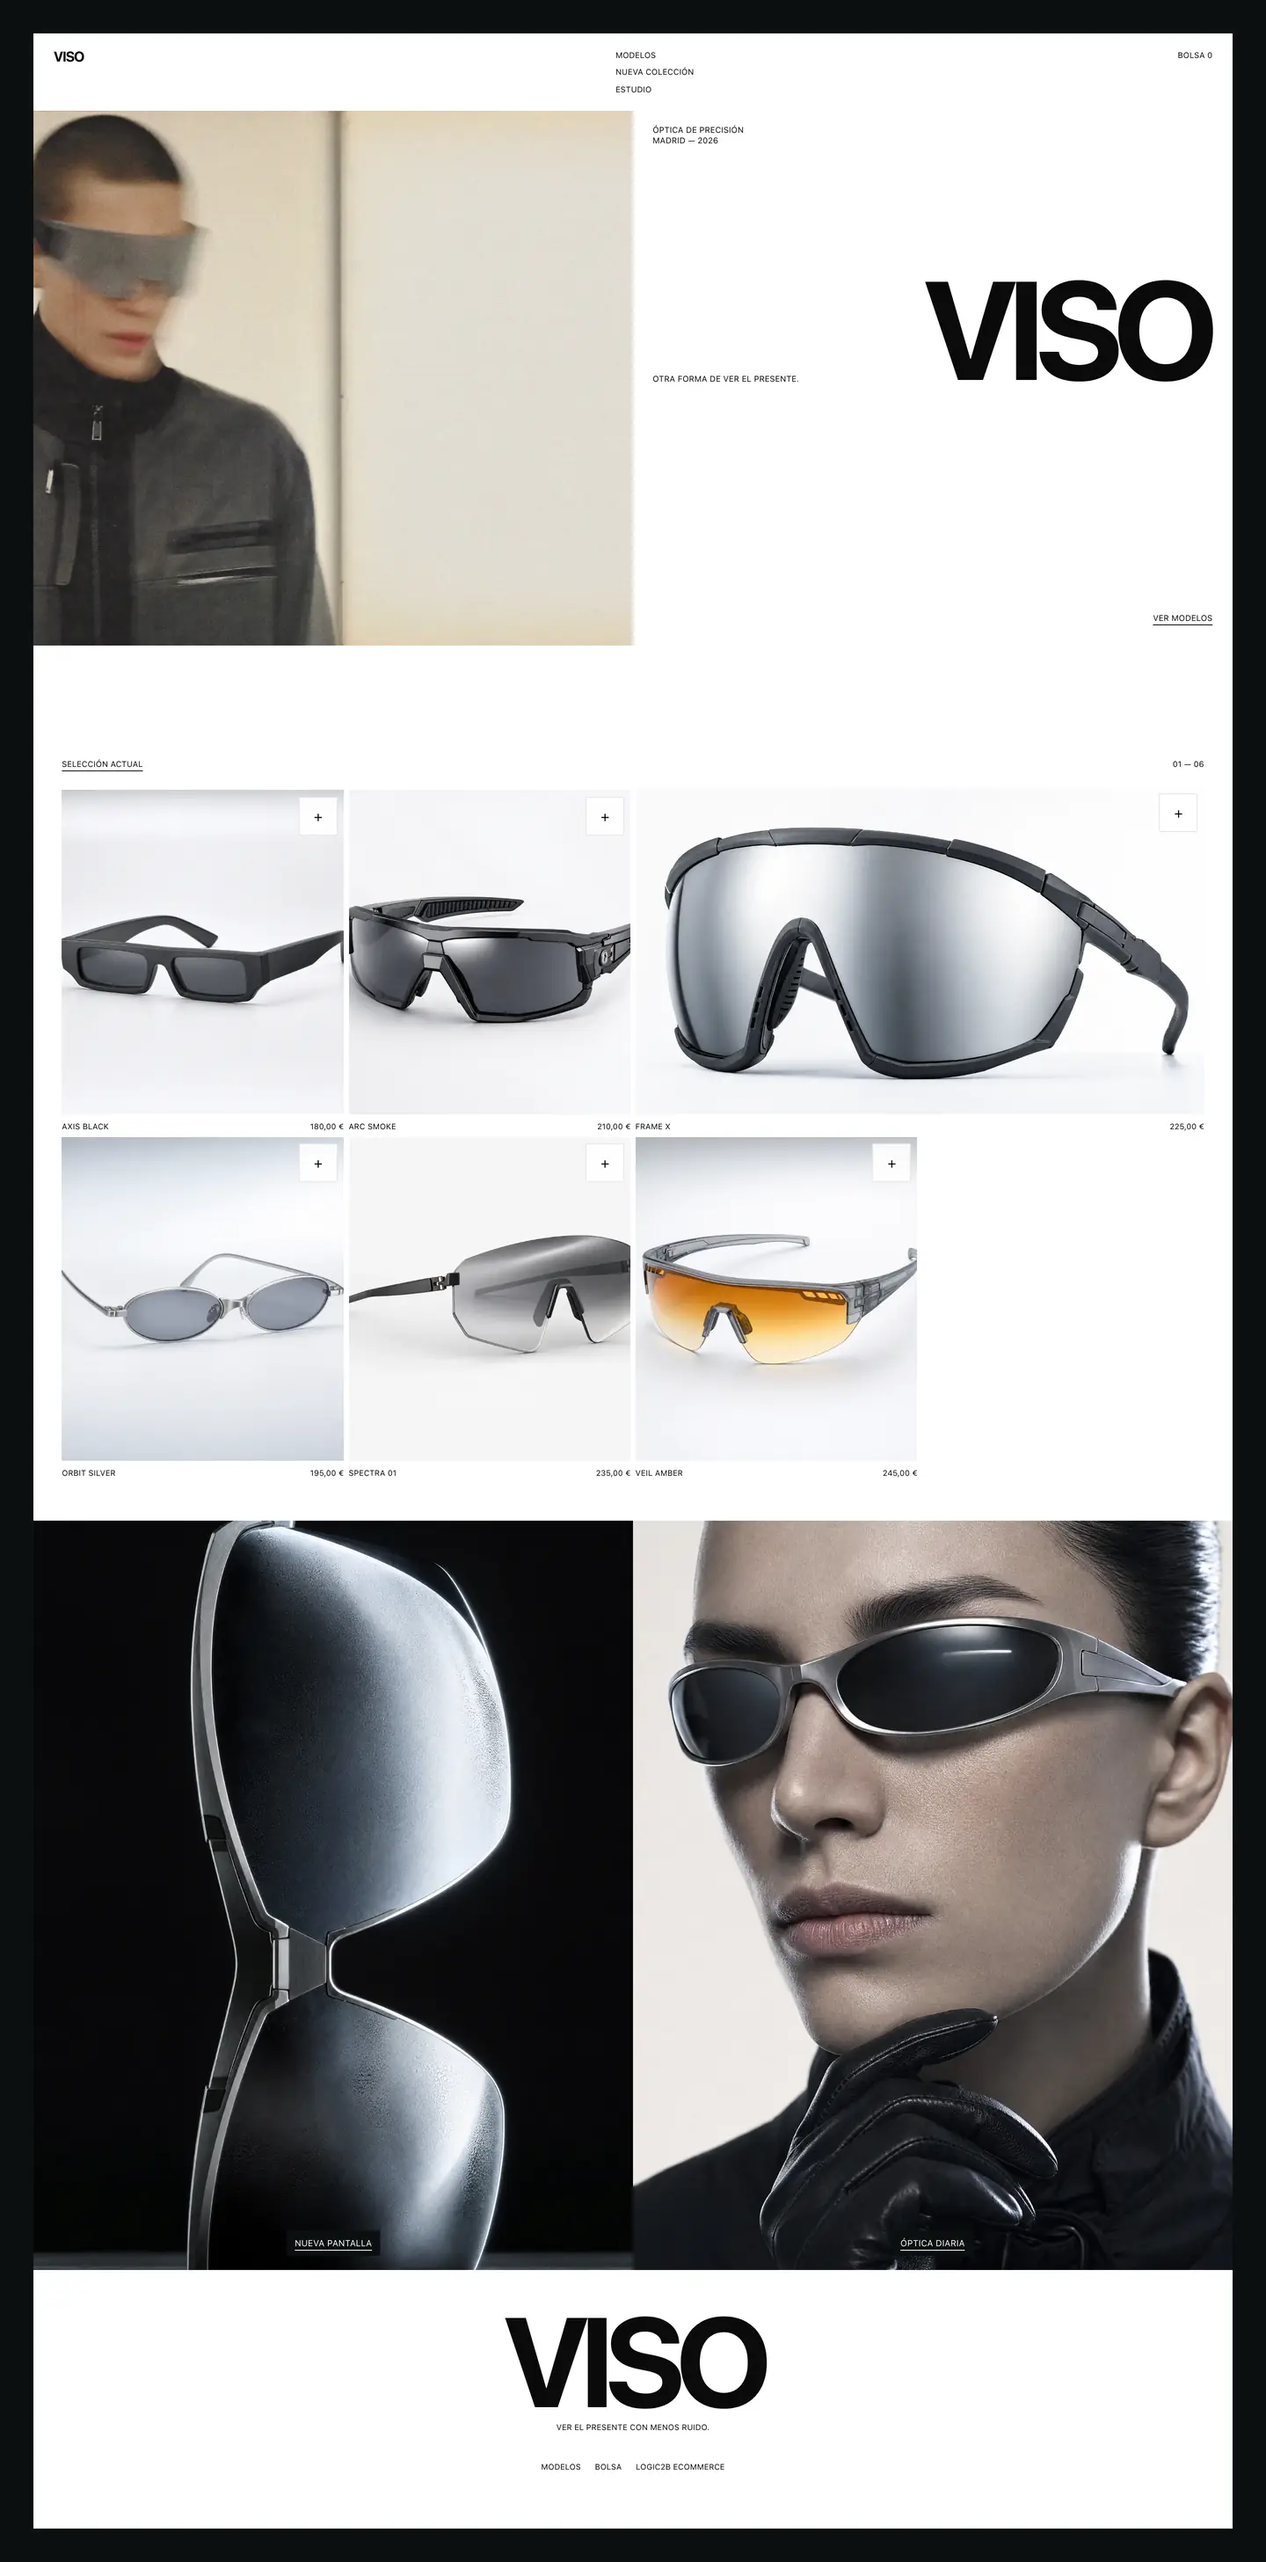
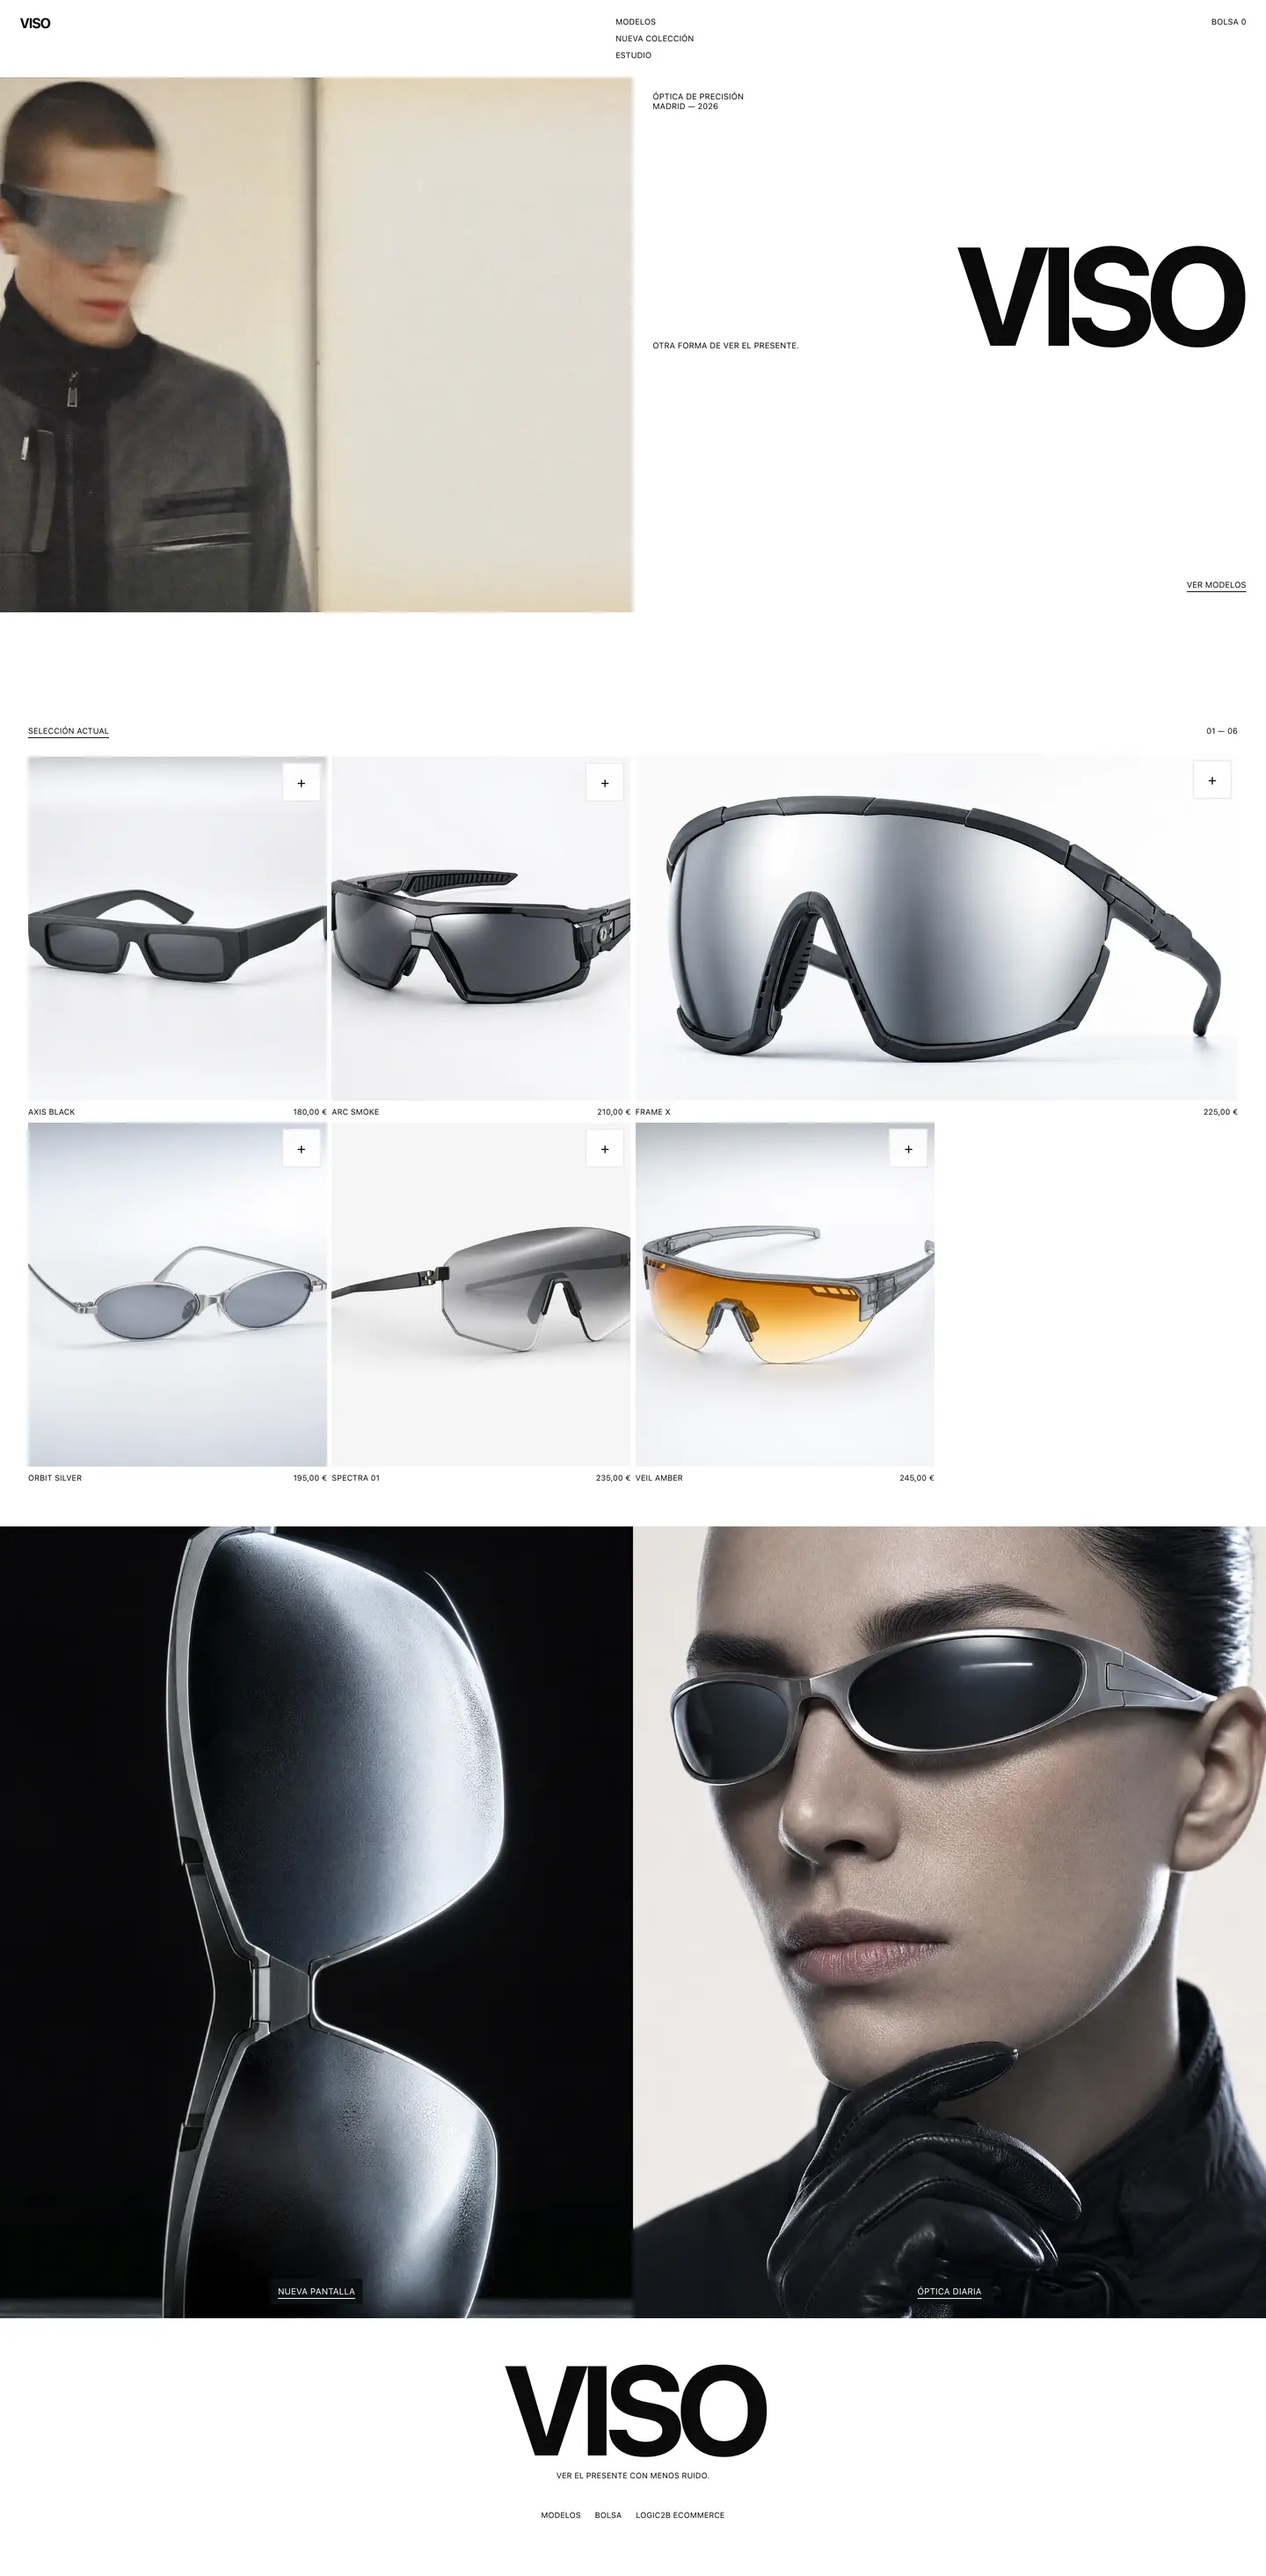
fix: make VISO storefront full width

Changed region(s): [[0.0, 0.0, 1.0, 1.0], [0.5312, 0.5935, 0.5625, 0.6873]]

diff --git a/docs/temas/viso.md b/docs/temas/viso.md
@@ -9,18 +9,19 @@
 
 ## Lectura de la referencia
 
-Escaparate de óptica futurista sobre un fondo casi negro, con una hoja marfil
-centrada, hero partido, navegación técnica diminuta y un wordmark enorme que
-cruza la zona de campaña. Debajo, la referencia alterna cuatro fichas de gafas
-de distinta anchura y cierra con dos campañas verticales. VISO conserva esa
-composición, el contraste de escala y la retícula asimétrica, pero usa marca,
-modelos, productos, copy y fotografías propios.
+La referencia presenta un escaparate de óptica futurista sobre un fondo casi
+negro, con una hoja marfil centrada, hero partido, navegación técnica diminuta y
+un wordmark enorme que cruza la zona de campaña. Debajo alterna cuatro fichas de
+gafas de distinta anchura y cierra con dos campañas verticales. VISO conserva
+esa composición, el contraste de escala y la retícula asimétrica, pero usa
+marca, modelos, productos, copy y fotografías propios. El 2026-08-10 Andreu
+pidió retirar el marco exterior y llevar el lienzo marfil a todo el viewport.
 
-En móvil la hoja mantiene su marco oscuro, la navegación secundaria desaparece,
-la campaña se convierte en un plano vertical y el wordmark baja a una sección
-de copy legible. La rejilla queda en dos columnas y conserva una pieza doble.
-Ficha, carrito y checkout usan el chrome compartido para mantener evidente el
-recorrido demo y no duplicar lógica comercial.
+En móvil el lienzo también ocupa todo el ancho, la navegación secundaria
+desaparece, la campaña se convierte en un plano vertical y el wordmark baja a
+una sección de copy legible. La rejilla queda en dos columnas y conserva una
+pieza doble. Ficha, carrito y checkout usan el chrome compartido para mantener
+evidente el recorrido demo y no duplicar lógica comercial.
 
 ## Imaginería y prompts finales
 

diff --git a/docs/ROADMAP.md b/docs/ROADMAP.md
@@ -775,7 +775,7 @@ es la posición 6. Sin despliegue ni cambios remotos. Ficha completa en
 ### Línea paralela · tema VISO (2026-08-10, sesión local)
 
 Sexto elemento de `nuevos-temas/cola.json`. VISO replica una dirección de óptica
-futurista con hoja clara enmarcada en negro, hero partido, wordmark de escala
+futurista con lienzo claro a ancho completo, hero partido, wordmark de escala
 extrema, seis productos `vis-*` y retícula asimétrica. Los nueve assets propios
 se generaron con Higgsfield tras un nuevo fallo de red de `imagegen`; se
 descartaron todos los resultados con texto o interfaz antes de integrar la

diff --git a/docs/TEMAS.md b/docs/TEMAS.md
@@ -657,7 +657,7 @@ la jerarquía de la referencia con identidad NERA. Ficha:
 
 **Para quién:** óptica y eyewear, moda tecnológica y accesorios premium.
 
-Hoja marfil sobre fondo negro, hero partido de campaña cinética, wordmark
+Lienzo marfil a ancho completo, hero partido de campaña cinética, wordmark
 sobredimensionado, seis modelos en retícula asimétrica y un díptico final de
 objeto/retrato. Nueve assets propios completan el recorrido sin tocar el motor
 comercial. Ficha: [`docs/temas/viso.md`](temas/viso.md).
